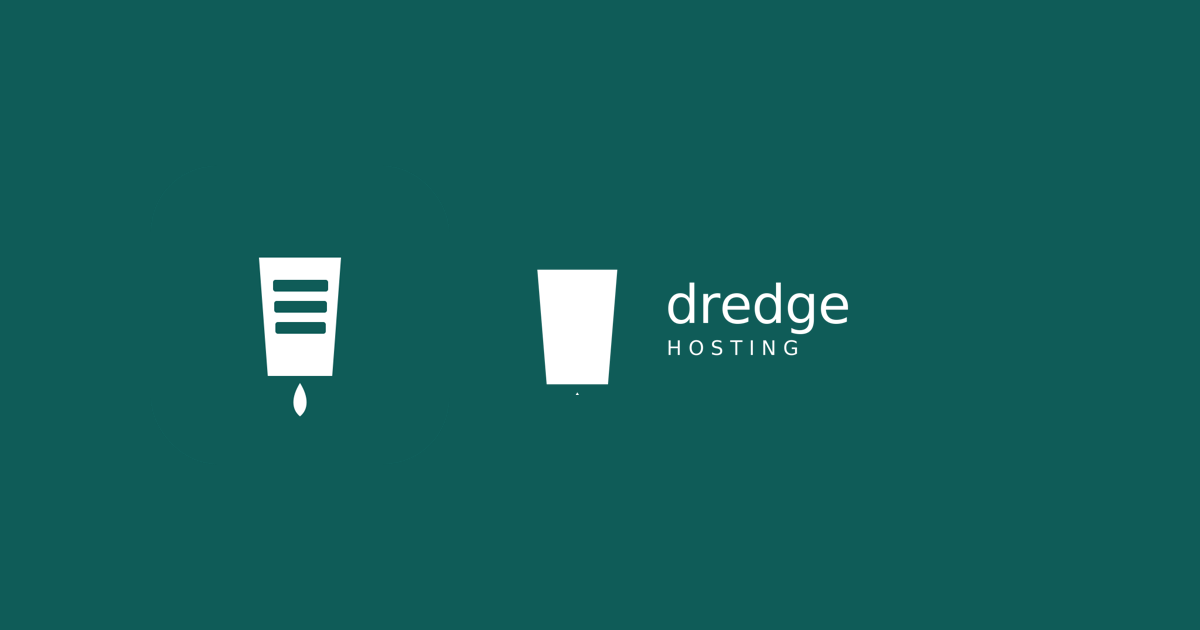
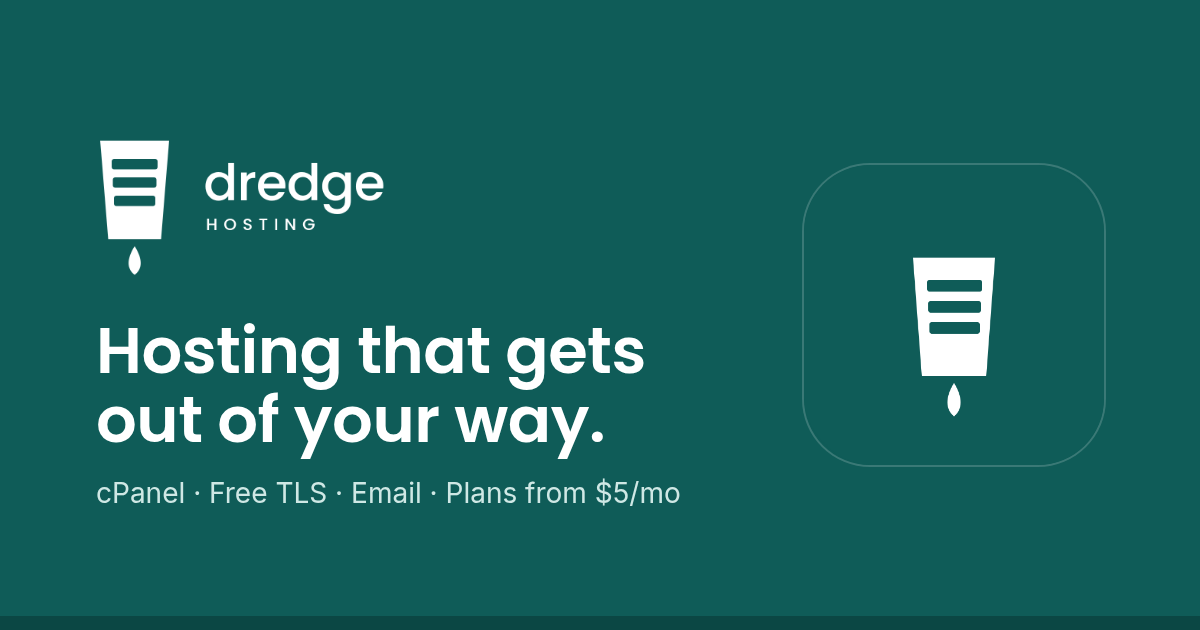
Fix brand assets, 404 paths, and leftover placeholders
- Rebuild the header and footer logos (drip was clipped, footer slats
  missing) and size the header logo to the brand guide minimum
- Regenerate the OG image, which showed a broken second logo mark
- Add favicon.ico/svg, a 180px touch icon, and a web app manifest
- 404 page uses root-absolute paths so it renders on nested URLs
- Fill in the founder card, rewrite the hero line, replace the Ghost claim
- Enable Plausible and note it in the privacy policy
- Remove dead code and files: notify form, thanks.html, _headers (GitHub
  Pages ignores it), duplicate favicons/logos, and .directory

diff --git a/assets/site.js b/assets/site.js
@@ -1,7 +1,7 @@
 /* ============================================================
    Dredge Host — shared site script
    Injects the header + footer on every page, wires up nav,
-   scroll reveals, the notify form, and the current year.
+   scroll reveals, the FAQ accordion, and the current year.
    Pages set data-active on <body> to highlight the right nav link.
    Use data-root="" for root pages and data-root="../" for pages
    in subfolders so links and asset paths stay correct.
@@ -9,23 +9,9 @@
 (function () {
     'use strict';
 
-    /* ============================================================
-       CONFIG — edit this line after you create the signup form.
-       1. Make a free account at https://formspree.io
-       2. Create a form, copy its endpoint (looks like
-          https://formspree.io/f/abcdwxyz)
-       3. Paste the "abcdwxyz" part below (the form ID).
-       The contact page links to the WHMCS contact form instead.
-       Leave as "" to keep the site in demo mode (validates and shows
-       a success message locally, but does not send anywhere).
-       ============================================================ */
-    var NOTIFY_FORM_ID  = "";   // e.g. "abcdwxyz"  -> notify / signup form
-    var FORMSPREE = "https://formspree.io/f/";
-
-    /* Optional: privacy-friendly analytics (Plausible). Leave blank to disable.
-       Set to your live domain, e.g. "dredgehost.com", after you add
-       the site at https://plausible.io — no cookies, no personal data. */
-    var PLAUSIBLE_DOMAIN = "";
+    /* Privacy-friendly analytics (Plausible): no cookies, no personal data.
+       The site must also be added at https://plausible.io. Blank disables it. */
+    var PLAUSIBLE_DOMAIN = "dredgehost.com";
 
     var root = document.body.getAttribute('data-root') || '';
     var active = document.body.getAttribute('data-active') || '';
@@ -46,7 +32,7 @@
         '<header class="site-header">' +
           '<div class="wrap header-inner">' +
             '<a class="brand" href="' + (root || './') + '" aria-label="Dredge Host home">' +
-              '<img src="' + root + 'assets/logo-horizontal.png" alt="Dredge Host" class="brand-logo">' +
+              '<img src="' + root + 'assets/logo.png" alt="Dredge Host" class="brand-logo" width="296" height="150">' +
             '</a>' +
             '<nav class="site-nav" aria-label="Primary">' +
               '<a href="' + (root || './') + '#features"' + (active === 'features' ? ' aria-current="page"' : '') + '>Features</a>' +
@@ -66,7 +52,7 @@
         '<footer class="site-footer">' +
           '<div class="wrap footer-inner">' +
             '<div class="footer-brand">' +
-              '<img src="' + root + 'assets/logo-horizontal-light.png" alt="Dredge Host" class="footer-logo">' +
+              '<img src="' + root + 'assets/logo-light.png" alt="Dredge Host" class="footer-logo" width="296" height="150">' +
               '<p class="footer-blurb">Fast, honest, independent web hosting. Every limit published.</p>' +
             '</div>' +
             '<nav class="footer-links" aria-label="Footer">' +
@@ -144,62 +130,6 @@
         revealTargets.forEach(function (el) { io.observe(el); });
     } else {
         revealTargets.forEach(function (el) { el.classList.add('in'); });
-    }
-
-    /* ---- Notify form ---- */
-    var form = document.getElementById('notifyForm');
-    var status = document.getElementById('notifyStatus');
-    if (form && status) {
-        form.addEventListener('submit', function (e) {
-            e.preventDefault();
-            var input = form.querySelector('input[type="email"]');
-            var value = (input.value || '').trim();
-            var valid = /^[^\s@]+@[^\s@]+\.[^\s@]+$/.test(value);
-
-            if (!valid) {
-                status.textContent = 'That email doesn\u2019t look right \u2014 mind checking it?';
-                status.className = 'notify-status err';
-                input.focus();
-                return;
-            }
-
-            // Demo mode: no endpoint configured yet.
-            if (!NOTIFY_FORM_ID) {
-                status.textContent = 'Thanks \u2014 you\u2019re signed up.';
-                status.className = 'notify-status ok';
-                form.reset();
-                return;
-            }
-
-            // Live mode: POST to Formspree.
-            var btn = form.querySelector('button[type="submit"]');
-            var label = btn ? btn.textContent : '';
-            if (btn) { btn.disabled = true; btn.textContent = 'Sending\u2026'; }
-            status.textContent = '';
-            status.className = 'notify-status';
-
-            fetch(FORMSPREE + NOTIFY_FORM_ID, {
-                method: 'POST',
-                headers: { 'Accept': 'application/json' },
-                body: new FormData(form)
-            }).then(function (res) {
-                if (res.ok) {
-                    // Prefer a dedicated thank-you page if present.
-                    window.location.href = root + 'thanks.html';
-                } else {
-                    return res.json().then(function (data) {
-                        var msg = (data && data.errors && data.errors.length)
-                            ? data.errors.map(function (x) { return x.message; }).join(', ')
-                            : 'Something went wrong. Please try again, or email support@dredgehost.com.';
-                        throw new Error(msg);
-                    });
-                }
-            }).catch(function (err) {
-                status.textContent = err.message || 'Network error \u2014 please try again.';
-                status.className = 'notify-status err';
-                if (btn) { btn.disabled = false; btn.textContent = label; }
-            });
-        });
     }
 
     /* ---- FAQ accordion ---- */

diff --git a/index.html b/index.html
@@ -14,8 +14,10 @@
     <meta property="og:image" content="https://dredgehost.com/assets/og-image.png">
     <meta name="twitter:card" content="summary_large_image">
     <meta name="theme-color" content="#0f5c58">
-    <link rel="icon" type="image/png" href="assets/favicon.png">
-    <link rel="apple-touch-icon" href="assets/dredge-app-tile-512.png">
+    <link rel="icon" href="/favicon.ico" sizes="any">
+    <link rel="icon" href="assets/favicon.svg" type="image/svg+xml">
+    <link rel="apple-touch-icon" href="assets/dredge-app-tile-180.png">
+    <link rel="manifest" href="/site.webmanifest">
     <link rel="preconnect" href="https://fonts.googleapis.com">
     <link rel="preconnect" href="https://fonts.gstatic.com" crossorigin>
     <link href="https://fonts.googleapis.com/css2?family=Poppins:wght@400;500;600&family=Inter:wght@400;500;600&display=swap" rel="stylesheet">
@@ -58,9 +60,9 @@
                     <p class="eyebrow">A Web Hosting Company</p>
                     <h1 class="hero-title">Hosting that gets out of your way.</h1>
                     <p class="hero-sub">
-                        Dredge Host is a small, independent hosting company running a
-                        single well-kept cPanel platform. Every limit
-                        is published, nothing is unlimited, and nobody is upsold.
+                        A small, independent host on one carefully tended cPanel platform.
+                        Real limits, written down. No &ldquo;unlimited&rdquo; fine print.
+                        No upsell waiting at checkout.
                     </p>
                     <div class="hero-actions">
                         <a class="btn btn-primary" href="#get-started">Get started</a>
@@ -104,7 +106,7 @@
                     <article class="feature">
                         <span class="feature-num">03</span>
                         <h3>One-click installs</h3>
-                        <p>Launch WordPress, Ghost, and a few hundred other apps from
+                        <p>Launch WordPress, Joomla, Drupal, and a few hundred other apps from
                         Softaculous in a couple of clicks. No manual setup, no config files.</p>
                     </article>
                     <article class="feature">

diff --git a/404.html b/404.html
@@ -7,31 +7,33 @@
     <meta name="description" content="That page couldn't be found.">
     <meta name="robots" content="noindex">
     <meta name="theme-color" content="#0f5c58">
-    <link rel="icon" type="image/png" href="assets/favicon.png">
-    <link rel="apple-touch-icon" href="assets/dredge-app-tile-512.png">
+    <link rel="icon" href="/favicon.ico" sizes="any">
+    <link rel="icon" href="/assets/favicon.svg" type="image/svg+xml">
+    <link rel="apple-touch-icon" href="/assets/dredge-app-tile-180.png">
+    <link rel="manifest" href="/site.webmanifest">
     <link rel="preconnect" href="https://fonts.googleapis.com">
     <link rel="preconnect" href="https://fonts.gstatic.com" crossorigin>
     <link href="https://fonts.googleapis.com/css2?family=Poppins:wght@400;500;600&family=Inter:wght@400;500;600&display=swap" rel="stylesheet">
-    <link rel="stylesheet" href="style.css">
+    <link rel="stylesheet" href="/style.css">
 </head>
-<body data-root="" data-active="">
+<body data-root="/" data-active="">
     <div id="site-header"></div>
     <main id="main">
         <section class="center-stage">
             <div class="inner">
-                <img src="assets/dredge-app-tile-512.png" alt="" class="big-mark" aria-hidden="true">
+                <img src="/assets/dredge-app-tile-512.png" alt="" class="big-mark" aria-hidden="true">
                 <p class="code">Error 404</p>
                 <h1>This channel runs dry.</h1>
                 <p>The page you're looking for isn't here. It may have moved, or never
                 existed. Let's get you back to solid ground.</p>
                 <div class="actions">
-                    <a class="btn btn-primary" href="./">Back to home</a>
-                    <a class="btn btn-ghost" href="contact.html">Report a broken link</a>
+                    <a class="btn btn-primary" href="/">Back to home</a>
+                    <a class="btn btn-ghost" href="/contact.html">Report a broken link</a>
                 </div>
             </div>
         </section>
     </main>
     <div id="site-footer"></div>
-    <script src="assets/site.js"></script>
+    <script src="/assets/site.js"></script>
 </body>
 </html>

diff --git a/about.html b/about.html
@@ -14,8 +14,10 @@
     <meta property="og:image" content="https://dredgehost.com/assets/og-image.png">
     <meta name="twitter:card" content="summary_large_image">
     <meta name="theme-color" content="#0f5c58">
-    <link rel="icon" type="image/png" href="assets/favicon.png">
-    <link rel="apple-touch-icon" href="assets/dredge-app-tile-512.png">
+    <link rel="icon" href="/favicon.ico" sizes="any">
+    <link rel="icon" href="assets/favicon.svg" type="image/svg+xml">
+    <link rel="apple-touch-icon" href="assets/dredge-app-tile-180.png">
+    <link rel="manifest" href="/site.webmanifest">
     <link rel="preconnect" href="https://fonts.googleapis.com">
     <link rel="preconnect" href="https://fonts.gstatic.com" crossorigin>
     <link href="https://fonts.googleapis.com/css2?family=Poppins:wght@400;500;600&family=Inter:wght@400;500;600&display=swap" rel="stylesheet">
@@ -92,11 +94,10 @@
                 support desk, no ticket black hole.</p>
 
                 <div class="value-card" style="display:flex;gap:1.25rem;align-items:center;margin:1.5rem 0;">
-                    <div style="width:64px;height:64px;border-radius:50%;background:var(--teal-tint);flex-shrink:0;display:flex;align-items:center;justify-content:center;font-family:var(--display);font-weight:600;color:var(--teal);font-size:1.4rem;" aria-hidden="true">D</div>
+                    <div style="width:64px;height:64px;border-radius:50%;background:var(--teal-tint);flex-shrink:0;display:flex;align-items:center;justify-content:center;font-family:var(--display);font-weight:600;color:var(--teal);font-size:1.4rem;" aria-hidden="true">RV</div>
                     <div>
-                        <h3 style="margin-bottom:0.15rem;">[Your name]</h3>
-                        <p style="margin:0;">Founder &middot; Dredge Host<br>
-                        <span style="font-size:0.85rem;">Replace this card with your name, title, and photo.</span></p>
+                        <h3 style="margin-bottom:0.15rem;">Ruby Vataj</h3>
+                        <p style="margin:0;">Founder &amp; CEO &middot; Dredge Host</p>
                     </div>
                 </div>
 

diff --git a/privacy.html b/privacy.html
@@ -8,8 +8,10 @@
     <meta name="robots" content="noindex">
     <link rel="canonical" href="https://dredgehost.com/privacy.html">
     <meta name="theme-color" content="#0f5c58">
-    <link rel="icon" type="image/png" href="assets/favicon.png">
-    <link rel="apple-touch-icon" href="assets/dredge-app-tile-512.png">
+    <link rel="icon" href="/favicon.ico" sizes="any">
+    <link rel="icon" href="assets/favicon.svg" type="image/svg+xml">
+    <link rel="apple-touch-icon" href="assets/dredge-app-tile-180.png">
+    <link rel="manifest" href="/site.webmanifest">
     <link rel="preconnect" href="https://fonts.googleapis.com">
     <link rel="preconnect" href="https://fonts.gstatic.com" crossorigin>
     <link href="https://fonts.googleapis.com/css2?family=Poppins:wght@400;500;600&family=Inter:wght@400;500;600&display=swap" rel="stylesheet">
@@ -49,7 +51,7 @@
                 </ul>
 
                 <h2>Cookies</h2>
-                <p>The client area at my.dredgehost.com uses cookies to keep you logged in and to remember your cart. dredgehost.com itself doesn't use cookies or analytics. Its fonts load from Google Fonts, which receives your IP address.</p>
+                <p>The client area at my.dredgehost.com uses cookies to keep you logged in and to remember your cart. dredgehost.com itself doesn't use cookies. We count page views with Plausible Analytics, which uses no cookies, collects no personal data, and doesn't track you across other sites. Its fonts load from Google Fonts, which receives your IP address.</p>
 
                 <h2>How long we keep it</h2>
                 <p>We keep account details while your account is active. After an account is closed, its hosted files, databases, and email are deleted within 30 days. Billing records such as invoices and payments are kept for as long as tax law requires, usually up to 7 years.</p>

diff --git a/contact.html b/contact.html
@@ -14,8 +14,10 @@
     <meta property="og:image" content="https://dredgehost.com/assets/og-image.png">
     <meta name="twitter:card" content="summary_large_image">
     <meta name="theme-color" content="#0f5c58">
-    <link rel="icon" type="image/png" href="assets/favicon.png">
-    <link rel="apple-touch-icon" href="assets/dredge-app-tile-512.png">
+    <link rel="icon" href="/favicon.ico" sizes="any">
+    <link rel="icon" href="assets/favicon.svg" type="image/svg+xml">
+    <link rel="apple-touch-icon" href="assets/dredge-app-tile-180.png">
+    <link rel="manifest" href="/site.webmanifest">
     <link rel="preconnect" href="https://fonts.googleapis.com">
     <link rel="preconnect" href="https://fonts.gstatic.com" crossorigin>
     <link href="https://fonts.googleapis.com/css2?family=Poppins:wght@400;500;600&family=Inter:wght@400;500;600&display=swap" rel="stylesheet">

diff --git a/pricing.html b/pricing.html
@@ -14,8 +14,10 @@
     <meta property="og:image" content="https://dredgehost.com/assets/og-image.png">
     <meta name="twitter:card" content="summary_large_image">
     <meta name="theme-color" content="#0f5c58">
-    <link rel="icon" type="image/png" href="assets/favicon.png">
-    <link rel="apple-touch-icon" href="assets/dredge-app-tile-512.png">
+    <link rel="icon" href="/favicon.ico" sizes="any">
+    <link rel="icon" href="assets/favicon.svg" type="image/svg+xml">
+    <link rel="apple-touch-icon" href="assets/dredge-app-tile-180.png">
+    <link rel="manifest" href="/site.webmanifest">
     <link rel="preconnect" href="https://fonts.googleapis.com">
     <link rel="preconnect" href="https://fonts.gstatic.com" crossorigin>
     <link href="https://fonts.googleapis.com/css2?family=Poppins:wght@400;500;600&family=Inter:wght@400;500;600&display=swap" rel="stylesheet">

diff --git a/status.html b/status.html
@@ -14,8 +14,10 @@
     <meta property="og:image" content="https://dredgehost.com/assets/og-image.png">
     <meta name="twitter:card" content="summary_large_image">
     <meta name="theme-color" content="#0f5c58">
-    <link rel="icon" type="image/png" href="assets/favicon.png">
-    <link rel="apple-touch-icon" href="assets/dredge-app-tile-512.png">
+    <link rel="icon" href="/favicon.ico" sizes="any">
+    <link rel="icon" href="assets/favicon.svg" type="image/svg+xml">
+    <link rel="apple-touch-icon" href="assets/dredge-app-tile-180.png">
+    <link rel="manifest" href="/site.webmanifest">
     <link rel="preconnect" href="https://fonts.googleapis.com">
     <link rel="preconnect" href="https://fonts.gstatic.com" crossorigin>
     <link href="https://fonts.googleapis.com/css2?family=Poppins:wght@400;500;600&family=Inter:wght@400;500;600&display=swap" rel="stylesheet">

diff --git a/refunds.html b/refunds.html
@@ -8,8 +8,10 @@
     <meta name="robots" content="noindex">
     <link rel="canonical" href="https://dredgehost.com/refunds.html">
     <meta name="theme-color" content="#0f5c58">
-    <link rel="icon" type="image/png" href="assets/favicon.png">
-    <link rel="apple-touch-icon" href="assets/dredge-app-tile-512.png">
+    <link rel="icon" href="/favicon.ico" sizes="any">
+    <link rel="icon" href="assets/favicon.svg" type="image/svg+xml">
+    <link rel="apple-touch-icon" href="assets/dredge-app-tile-180.png">
+    <link rel="manifest" href="/site.webmanifest">
     <link rel="preconnect" href="https://fonts.googleapis.com">
     <link rel="preconnect" href="https://fonts.gstatic.com" crossorigin>
     <link href="https://fonts.googleapis.com/css2?family=Poppins:wght@400;500;600&family=Inter:wght@400;500;600&display=swap" rel="stylesheet">

diff --git a/terms.html b/terms.html
@@ -8,8 +8,10 @@
     <meta name="robots" content="noindex">
     <link rel="canonical" href="https://dredgehost.com/terms.html">
     <meta name="theme-color" content="#0f5c58">
-    <link rel="icon" type="image/png" href="assets/favicon.png">
-    <link rel="apple-touch-icon" href="assets/dredge-app-tile-512.png">
+    <link rel="icon" href="/favicon.ico" sizes="any">
+    <link rel="icon" href="assets/favicon.svg" type="image/svg+xml">
+    <link rel="apple-touch-icon" href="assets/dredge-app-tile-180.png">
+    <link rel="manifest" href="/site.webmanifest">
     <link rel="preconnect" href="https://fonts.googleapis.com">
     <link rel="preconnect" href="https://fonts.gstatic.com" crossorigin>
     <link href="https://fonts.googleapis.com/css2?family=Poppins:wght@400;500;600&family=Inter:wght@400;500;600&display=swap" rel="stylesheet">

diff --git a/aup.html b/aup.html
@@ -8,8 +8,10 @@
     <meta name="robots" content="noindex">
     <link rel="canonical" href="https://dredgehost.com/aup.html">
     <meta name="theme-color" content="#0f5c58">
-    <link rel="icon" type="image/png" href="assets/favicon.png">
-    <link rel="apple-touch-icon" href="assets/dredge-app-tile-512.png">
+    <link rel="icon" href="/favicon.ico" sizes="any">
+    <link rel="icon" href="assets/favicon.svg" type="image/svg+xml">
+    <link rel="apple-touch-icon" href="assets/dredge-app-tile-180.png">
+    <link rel="manifest" href="/site.webmanifest">
     <link rel="preconnect" href="https://fonts.googleapis.com">
     <link rel="preconnect" href="https://fonts.gstatic.com" crossorigin>
     <link href="https://fonts.googleapis.com/css2?family=Poppins:wght@400;500;600&family=Inter:wght@400;500;600&display=swap" rel="stylesheet">

diff --git a/style.css b/style.css
@@ -89,7 +89,7 @@ a { color: inherit; text-decoration: none; }
     display: flex; align-items: center; justify-content: space-between;
     height: 68px;
 }
-.brand-logo { height: 30px; width: auto; }
+.brand-logo { height: 46px; width: auto; }
 
 .site-nav { display: flex; align-items: center; gap: 2rem; }
 .site-nav a {
@@ -302,7 +302,7 @@ a { color: inherit; text-decoration: none; }
     flex-wrap: wrap; padding-bottom: 2.5rem;
     border-bottom: 1px solid rgba(255,255,255,0.12);
 }
-.footer-logo { height: 34px; width: auto; margin-bottom: 0.9rem; }
+.footer-logo { height: 54px; width: auto; margin-bottom: 0.9rem; }
 .footer-blurb { font-family: var(--display); font-size: 0.85rem; color: var(--paper); opacity: 0.6; }
 .footer-links { display: flex; gap: 4rem; }
 .footer-col { display: flex; flex-direction: column; gap: 0.6rem; }
